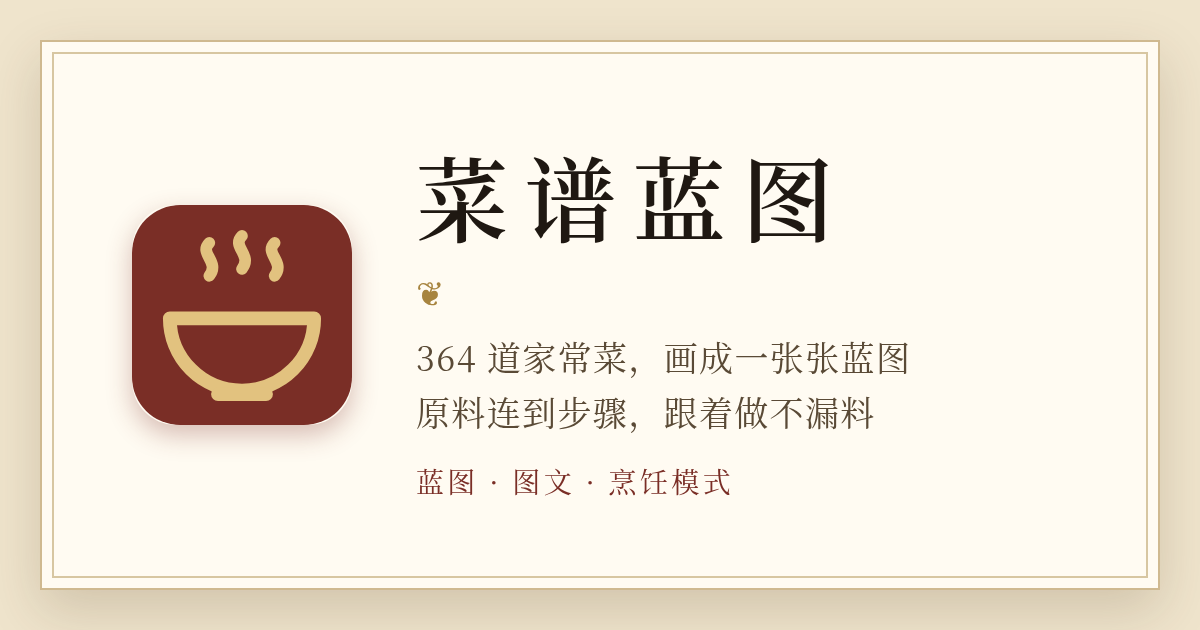
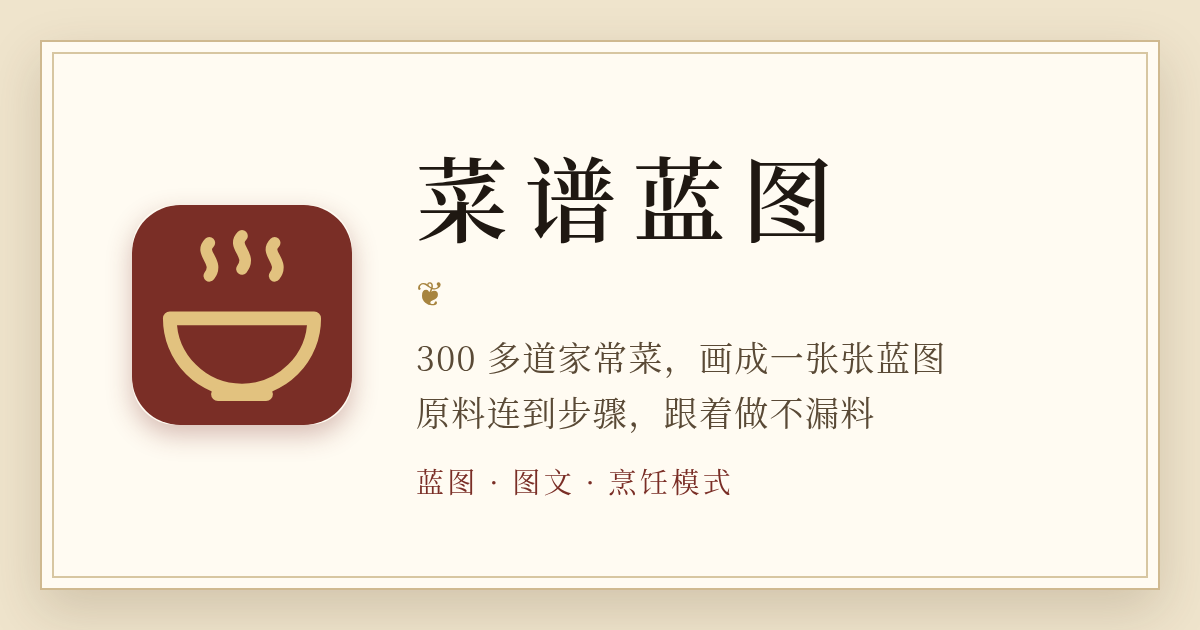
chore: Use '300 多道家常菜' instead of a hardcoded recipe count
The count changes whenever upstream recipes are merged (now 373).
Regenerated the default OG image.

Changed region(s): [[0.37, 0.5429, 0.8017, 0.6032]]

diff --git a/web/index.html b/web/index.html
@@ -5,7 +5,7 @@
     <meta name="viewport" content="width=device-width, initial-scale=1.0, viewport-fit=cover" />
     <meta name="theme-color" content="#f6efe0" />
     <title>菜谱蓝图 · 程序员做饭指南</title>
-    <meta name="description" content="364 道家常菜，画成一张张蓝图：原料连到步骤，跟着做不漏料。支持蓝图、图文和烹饪模式。" />
+    <meta name="description" content="300 多道家常菜，画成一张张蓝图：原料连到步骤，跟着做不漏料。支持蓝图、图文和烹饪模式。" />
     <link rel="icon" href="/favicon.svg" type="image/svg+xml" />
     <link rel="icon" href="/icon-192.png" type="image/png" sizes="192x192" />
     <link rel="apple-touch-icon" href="/apple-touch-icon.png" />
@@ -13,13 +13,13 @@
     <meta property="og:type" content="website" />
     <meta property="og:site_name" content="菜谱蓝图" />
     <meta property="og:title" content="菜谱蓝图 · 程序员做饭指南" />
-    <meta property="og:description" content="364 道家常菜，画成一张张蓝图：原料连到步骤，跟着做不漏料。支持蓝图、图文和烹饪模式。" />
+    <meta property="og:description" content="300 多道家常菜，画成一张张蓝图：原料连到步骤，跟着做不漏料。支持蓝图、图文和烹饪模式。" />
     <meta property="og:image" content="/og.png" />
     <meta property="og:url" content="/" />
     <meta name="twitter:card" content="summary_large_image" />
     <!-- QQ / QQ 空间读取 schema.org 的 itemprop -->
     <meta itemprop="name" content="菜谱蓝图 · 程序员做饭指南" />
-    <meta itemprop="description" content="364 道家常菜，画成一张张蓝图：原料连到步骤，跟着做不漏料。支持蓝图、图文和烹饪模式。" />
+    <meta itemprop="description" content="300 多道家常菜，画成一张张蓝图：原料连到步骤，跟着做不漏料。支持蓝图、图文和烹饪模式。" />
     <meta itemprop="image" content="/og.png" />
     <script>
       // 首屏前确定主题（默认“典藏”），避免闪烁；之后由 src/useTheme.ts 接管

diff --git a/web/brand/og.html b/web/brand/og.html
@@ -9,5 +9,5 @@ p{margin:0;font-size:34px;line-height:1.6;color:#5a4a36;letter-spacing:.04em}
 .tags{margin-top:22px;font-size:28px;color:#7a2e26;letter-spacing:.12em}
 </style></head><body><div class="card"><img src="icon.svg"><div>
 <h1>菜谱蓝图</h1><div class="orn">❦</div>
-<p>364 道家常菜，画成一张张蓝图<br>原料连到步骤，跟着做不漏料</p>
+<p>300 多道家常菜，画成一张张蓝图<br>原料连到步骤，跟着做不漏料</p>
 <div class="tags">蓝图 · 图文 · 烹饪模式</div></div></div></body></html>

diff --git a/web/worker/index.js b/web/worker/index.js
@@ -11,7 +11,7 @@
 
 const SITE = {
   title: '菜谱蓝图 · 程序员做饭指南',
-  description: '364 道家常菜，画成一张张蓝图：原料连到步骤，跟着做不漏料。支持蓝图、图文和烹饪模式。',
+  description: '300 多道家常菜，画成一张张蓝图：原料连到步骤，跟着做不漏料。支持蓝图、图文和烹饪模式。',
   image: '/og.png',
 }
 
